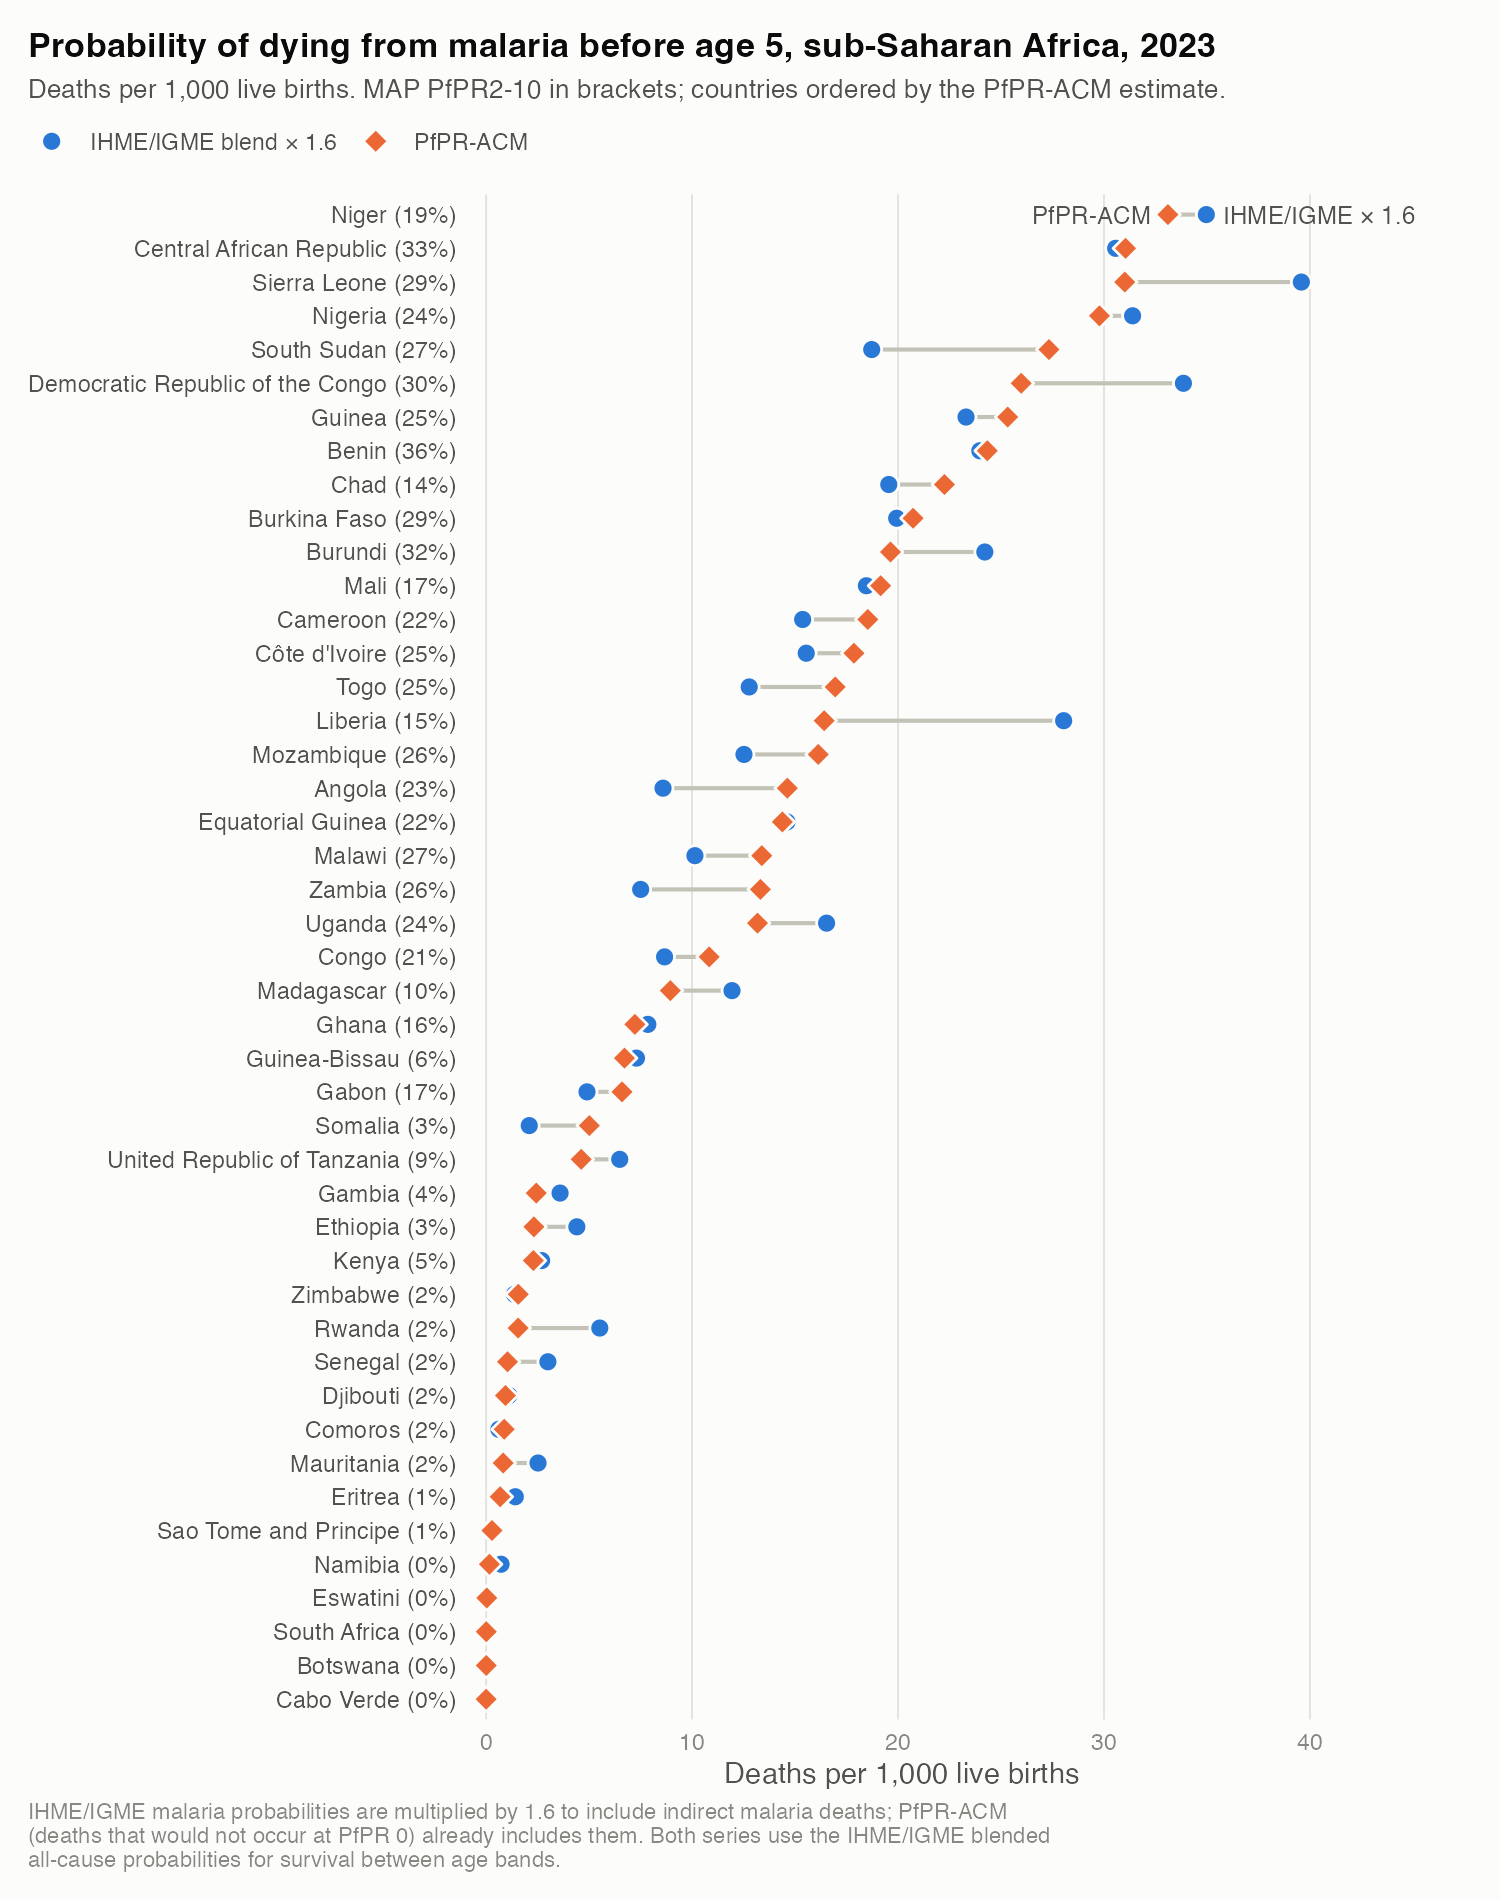
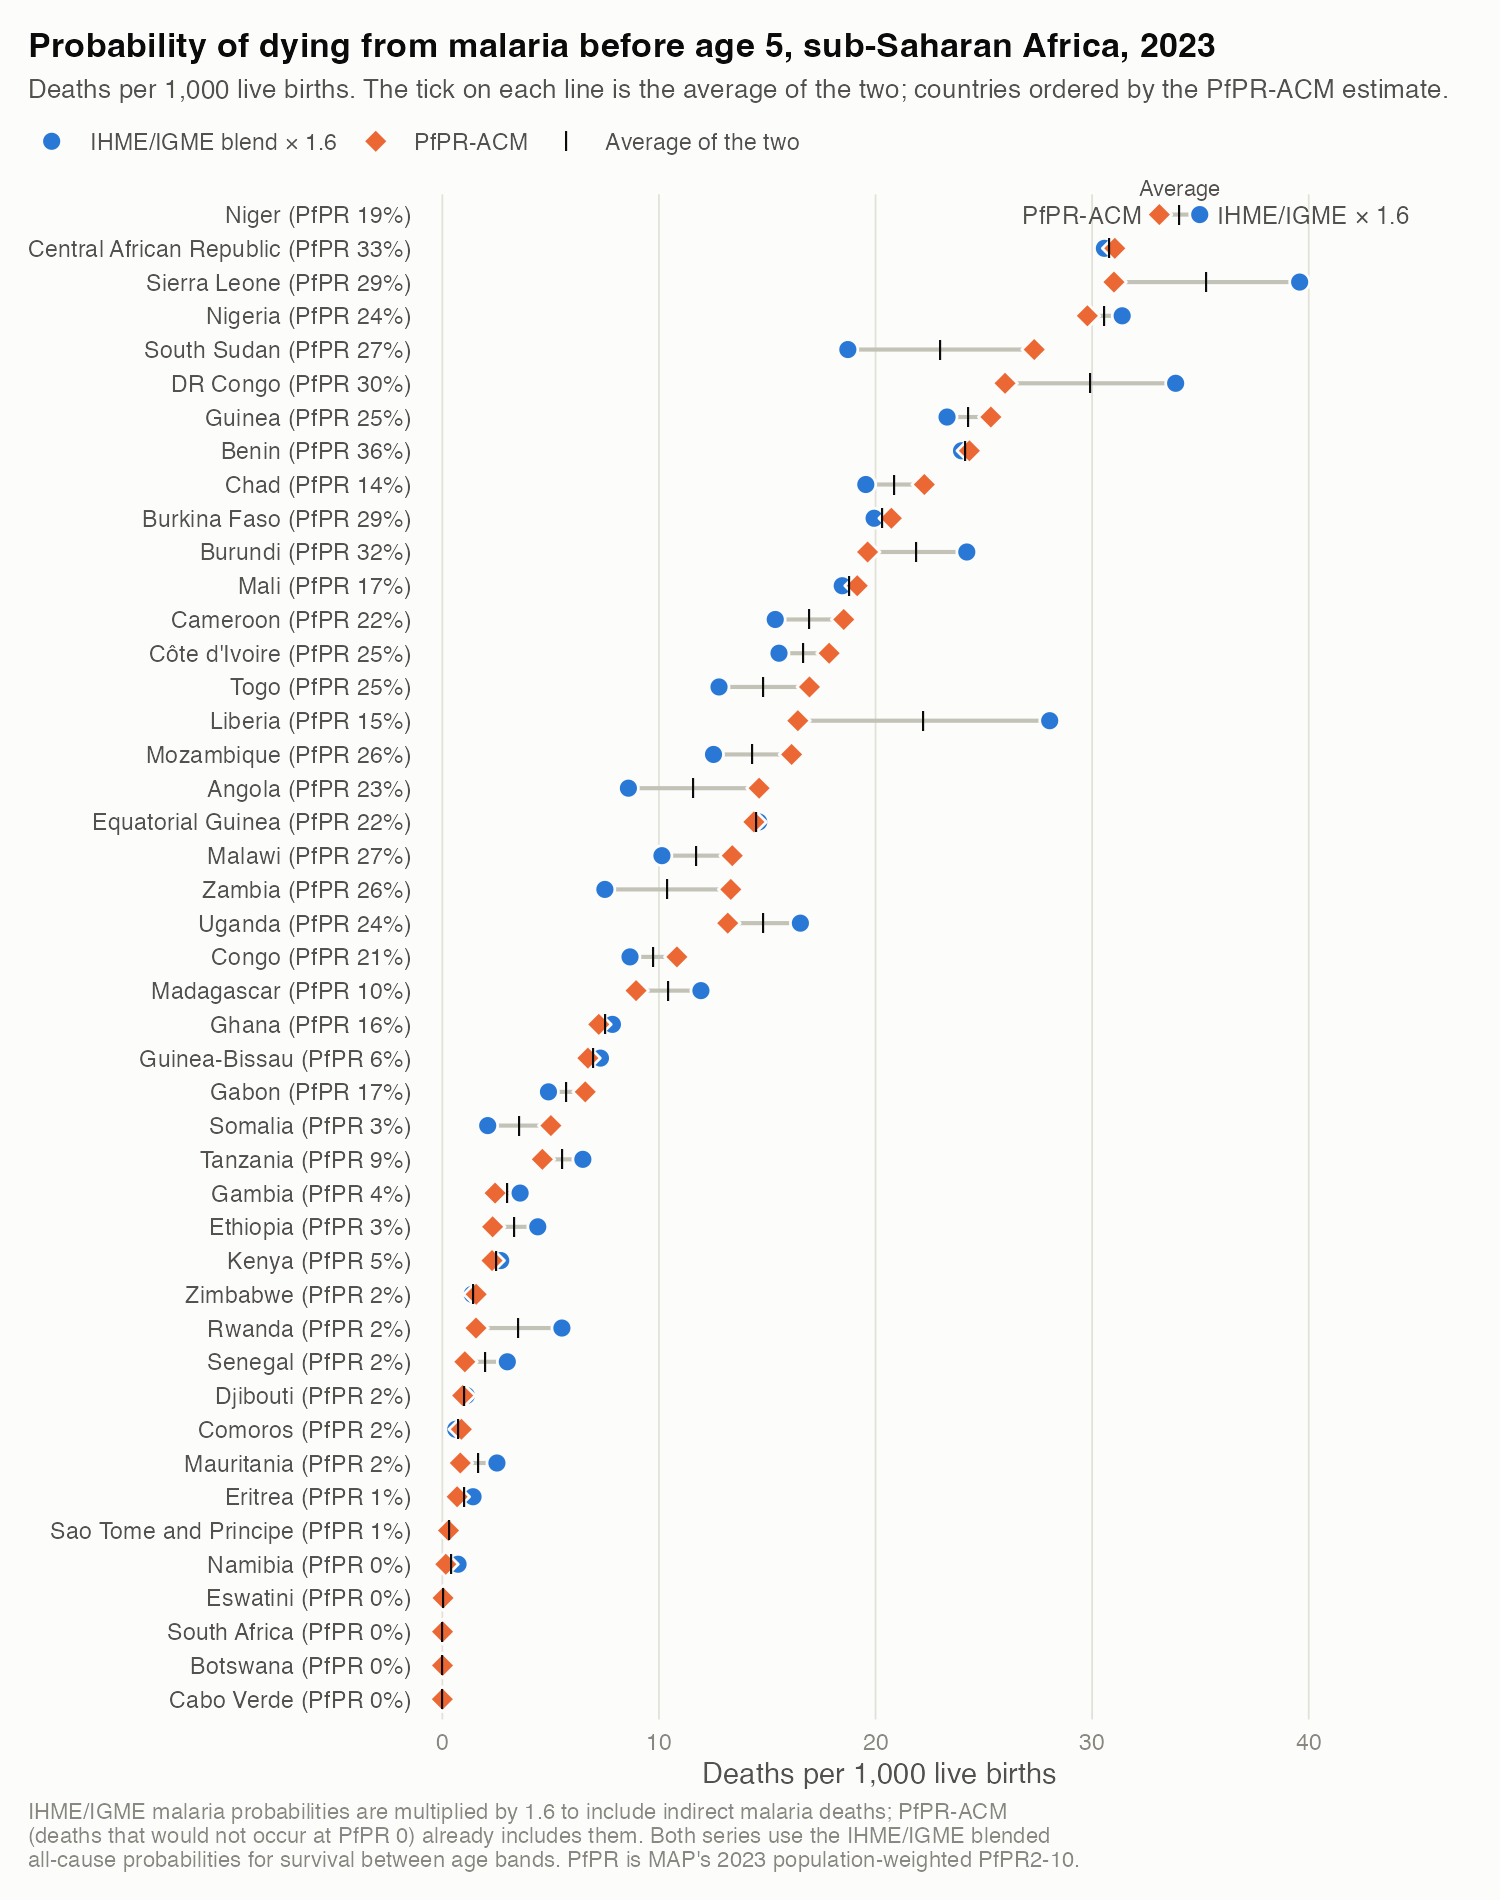
README figures: label brackets as PfPR and mark the average of the two estimates
Each row now reads 'Name (PfPR x%)' and carries a tick at the combined
estimate (combined_q_malaria), with a legend entry and a direct label on the
top row. Two long country names are shortened in the figure only.

diff --git a/README.md b/README.md
@@ -81,13 +81,14 @@ Both figures show the cumulative probability of dying from malaria before age 5:
 Σ<sub>band</sub> *S*<sub>band</sub> × *q*<sub>malaria,band</sub>, where *S* is survival to the start
 of the band. Both series use the blended all-cause probabilities for *S* (IHME's for Nigerian
 states). The IHME/IGME series includes the × 1.6 indirect-death adjustment; PfPR-ACM already
-counts indirect deaths.
+counts indirect deaths. The tick on each line marks the combined estimate (`combined_q_malaria`),
+the average of the two. The bracket in each label is the location's MAP PfPR2–10.
 
 ### Countries
 
 <picture>
   <source media="(prefers-color-scheme: dark)" srcset="figures/u5_malaria_probability_countries_dark.png">
-  <img alt="Dot plot of the probability of dying from malaria before age 5 in 2023 for 45 sub-Saharan African countries, comparing the IHME/IGME blend multiplied by 1.6 for indirect deaths with PfPR-ACM. The two are similar in most high-prevalence countries; Sierra Leone has the highest adjusted blend at 40 per 1,000 and Niger the highest PfPR-ACM at 33." src="figures/u5_malaria_probability_countries_light.png" width="720">
+  <img alt="Dot plot of the probability of dying from malaria before age 5 in 2023 for 45 sub-Saharan African countries, comparing the IHME/IGME blend multiplied by 1.6 for indirect deaths with PfPR-ACM, with a tick at their average. The two are similar in most high-prevalence countries; Sierra Leone has the highest adjusted blend at 40 per 1,000 and Niger the highest PfPR-ACM at 33." src="figures/u5_malaria_probability_countries_light.png" width="720">
 </picture>
 
 - **Overall:** with the adjustment, PfPR-ACM is higher in 19 of 45 countries and lower in 26
@@ -105,7 +106,7 @@ counts indirect deaths.
 
 <picture>
   <source media="(prefers-color-scheme: dark)" srcset="figures/u5_malaria_probability_nigeria_states_dark.png">
-  <img alt="Dot plot of the probability of dying from malaria before age 5 in 2023 for Nigeria's 37 states, comparing IHME multiplied by 1.6 for indirect deaths with PfPR-ACM. PfPR-ACM is higher in 13 states, nearly all northern, led by Sokoto at 55 per 1,000; IHME is higher in most southern states, with the largest gap in Lagos (21 against 9)." src="figures/u5_malaria_probability_nigeria_states_light.png" width="720">
+  <img alt="Dot plot of the probability of dying from malaria before age 5 in 2023 for Nigeria's 37 states, comparing IHME multiplied by 1.6 for indirect deaths with PfPR-ACM, with a tick at their average. PfPR-ACM is higher in 13 states, nearly all northern, led by Sokoto at 55 per 1,000; IHME is higher in most southern states, with the largest gap in Lagos (21 against 9)." src="figures/u5_malaria_probability_nigeria_states_light.png" width="720">
 </picture>
 
 - **Overall:** PfPR-ACM is higher than IHME × 1.6 in 13 of 37 states and lower in 24 (median
